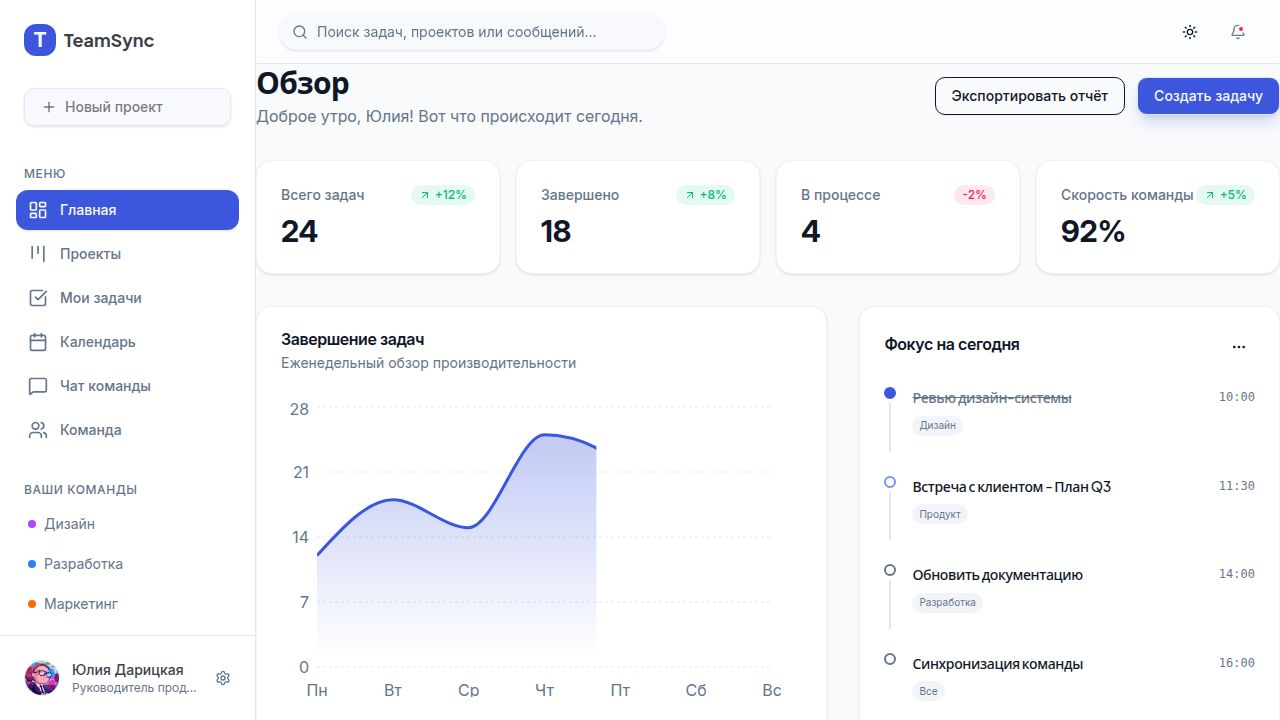
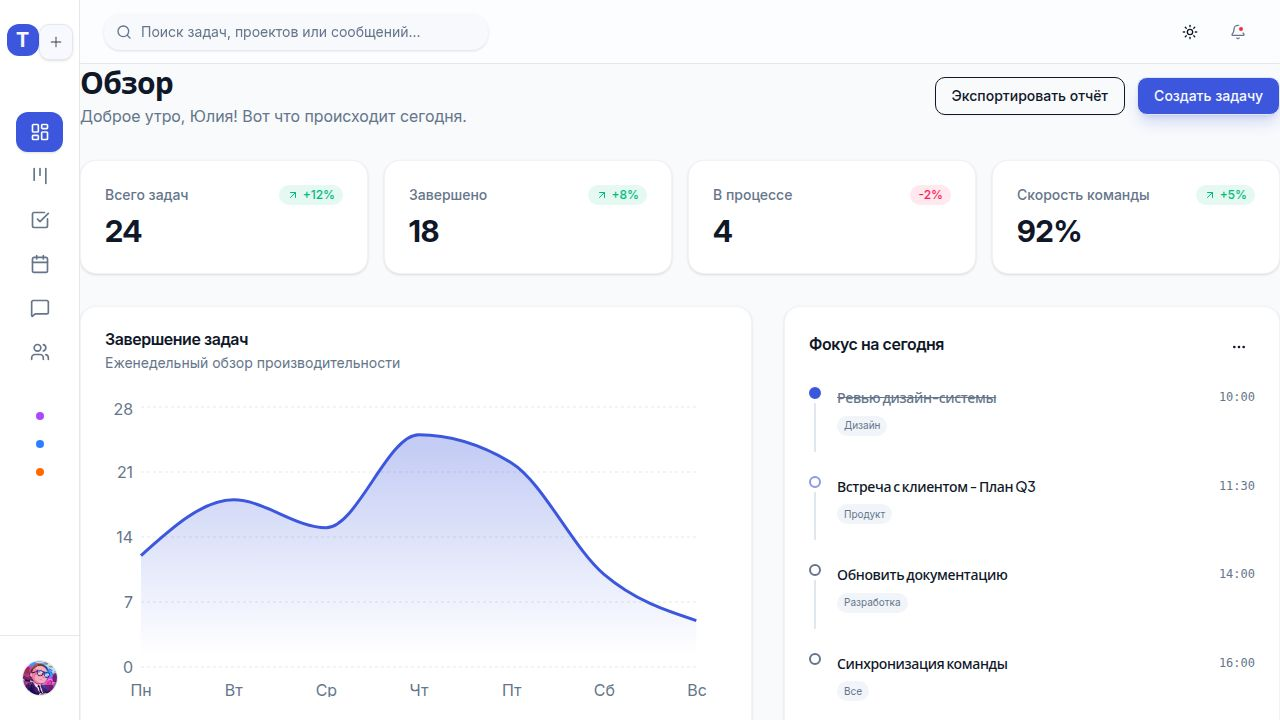
Automatically collapse the sidebar on desktop when navigating pages
Refactor the Layout component to automatically collapse the sidebar on desktop viewports (>= 768px) upon location change using a useEffect hook, and update click handlers to manage sidebar state and mobile open state appropriately.

Replit-Commit-Author: Agent
Replit-Commit-Session-Id: 86fa8730-0adf-46c0-a5ce-d7efcf1eead9
Replit-Commit-Checkpoint-Type: full_checkpoint
Replit-Commit-Event-Id: 90977cbc-85f1-40a5-ba25-31c58792998c
Replit-Commit-Screenshot-Url: https://storage.googleapis.com/screenshot-production-us-central1/d3e89fc9-67fd-44f6-a7ef-39d89d359206/86fa8730-0adf-46c0-a5ce-d7efcf1eead9/cNd15O3
Replit-Helium-Checkpoint-Created: true

diff --git a/client/src/components/layout/Layout.tsx b/client/src/components/layout/Layout.tsx
@@ -1,4 +1,4 @@
-import React, { useState } from "react";
+import React, { useState, useEffect } from "react";
 import { useLocation } from "wouter";
 import { cn } from "@/lib/utils";
 import {
@@ -37,13 +37,12 @@ export function Layout({ children }: { children: React.ReactNode }) {
   const [isMobileOpen, setIsMobileOpen] = useState(false);
   const [isCollapsed, setIsCollapsed] = useState(false);
 
-  const handleCollapse = () => {
+  // Collapse sidebar on location change for desktop
+  useEffect(() => {
     if (window.innerWidth >= 768) {
       setIsCollapsed(true);
-    } else {
-      setIsMobileOpen(false);
     }
-  };
+  }, [location]);
 
   const SidebarContent = () => (
     <div className={cn(
@@ -61,7 +60,9 @@ export function Layout({ children }: { children: React.ReactNode }) {
         <div className="mb-4">
           <Button 
             variant="outline" 
-            onClick={handleCollapse}
+            onClick={() => {
+              if (window.innerWidth >= 768) setIsCollapsed(true);
+            }}
             className={cn(
               "w-full justify-start gap-2 bg-sidebar-accent/50 border-sidebar-border text-sidebar-foreground/70 hover:text-sidebar-foreground shadow-sm overflow-hidden whitespace-nowrap",
               isCollapsed && "px-2 justify-center"
@@ -83,7 +84,9 @@ export function Layout({ children }: { children: React.ReactNode }) {
                 key={item.href}
                 onClick={() => {
                   setLocation(item.href);
-                  handleCollapse();
+                  if (window.innerWidth < 768) {
+                    setIsMobileOpen(false);
+                  }
                 }}
                 className={cn(
                   "flex items-center gap-3 px-3 py-2.5 rounded-lg text-sm font-medium transition-all duration-200 group overflow-hidden whitespace-nowrap cursor-pointer",
@@ -106,7 +109,9 @@ export function Layout({ children }: { children: React.ReactNode }) {
           {["Дизайн", "Разработка", "Маркетинг"].map((team, i) => (
              <button 
                key={i} 
-               onClick={handleCollapse}
+               onClick={() => {
+                 if (window.innerWidth >= 768) setIsCollapsed(true);
+               }}
                className={cn(
                  "w-full flex items-center gap-2 px-3 py-2 rounded-lg text-sm text-muted-foreground hover:bg-sidebar-accent hover:text-sidebar-accent-foreground transition-colors text-left overflow-hidden whitespace-nowrap",
                  isCollapsed && "px-2 justify-center"
